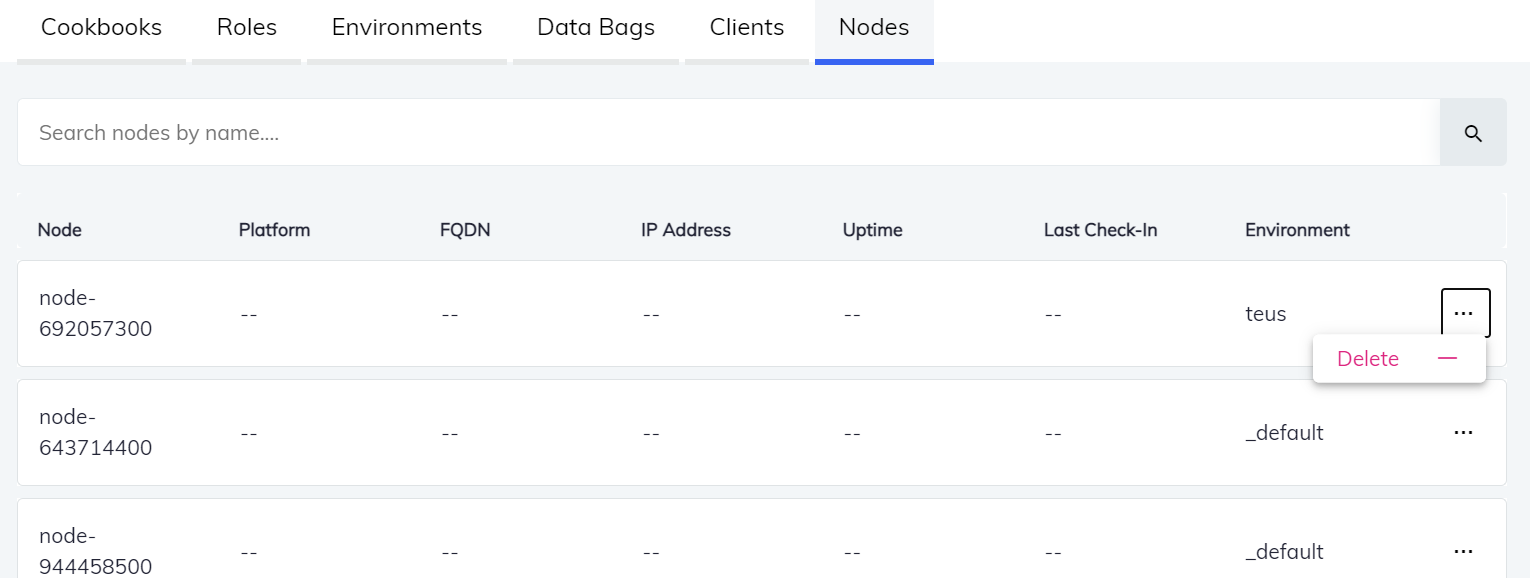
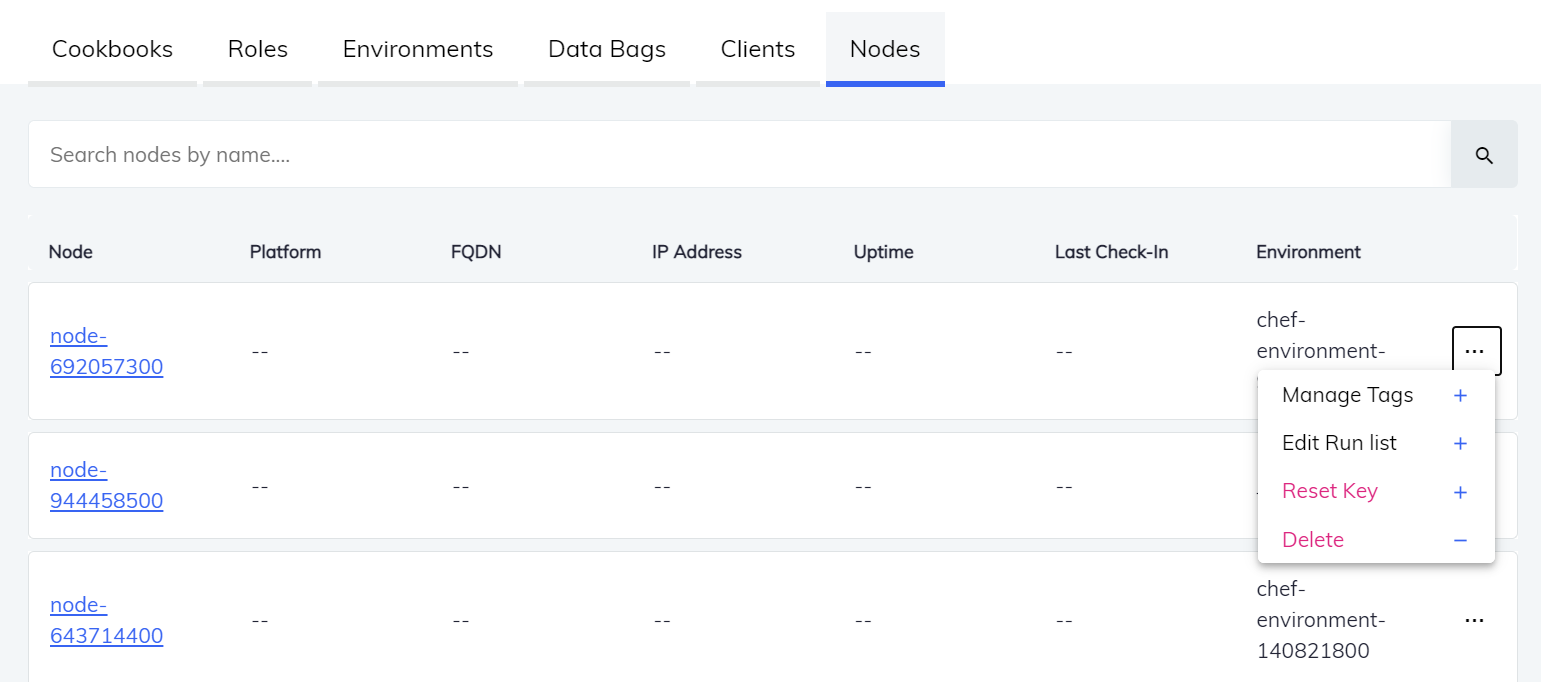
manage tags section added to the chef infra server

diff --git a/components/docs-chef-io/content/automate/chef_infra_server.md b/components/docs-chef-io/content/automate/chef_infra_server.md
@@ -309,10 +309,13 @@ A [node]({{< relref "/nodes" >}}) is a device that is managed by Chef Infra. Dur
 
 The Chef Infra Server integration lets you:
 
-- Search for a specific node from a list of nodes.
-- View a list of all the connected nodes.
-- Details of a node.
-- Delete a node.
+- Search for a specific node from a list of nodes
+- View a list of all the connected nodes
+- Details of a node
+- Manage tags
+- Edit Run list of a node
+- Reset a node key
+- Delete a node
 
 #### Search for a Node
 
@@ -340,6 +343,20 @@ To select the environment:
 - Selecting an environment will open a popup to save the node environment. Select **Save** to change the node environment.
 
 {{< figure src="/images/automate/update-node-environment.png" alt="Update Node Environment">}}
+
+#### Manage Tags
+
+Chef Infra allows you to manage tags of the environment. You can add or remove multiple tags by:
+
+- Selecting the node and add the tags from the text bar below the dropdown menu of environment.
+
+- OR, by simply selecting the **Manage Tags** option in the ellipses icon of a specific node. Selecting the Manage Tags option from the ellipses icon opens a popup window, where you can add multiple tags and click **Update Tags**. The popup window looks like as shown below:
+
+{{< figure src="/images/automate/manage-tags-from-ellipses-icon.png" alt="Manage Tags">}}
+
+#### Edit Run list of a Node
+
+#### Reset a Node Key
 
 #### Delete a Node
 
